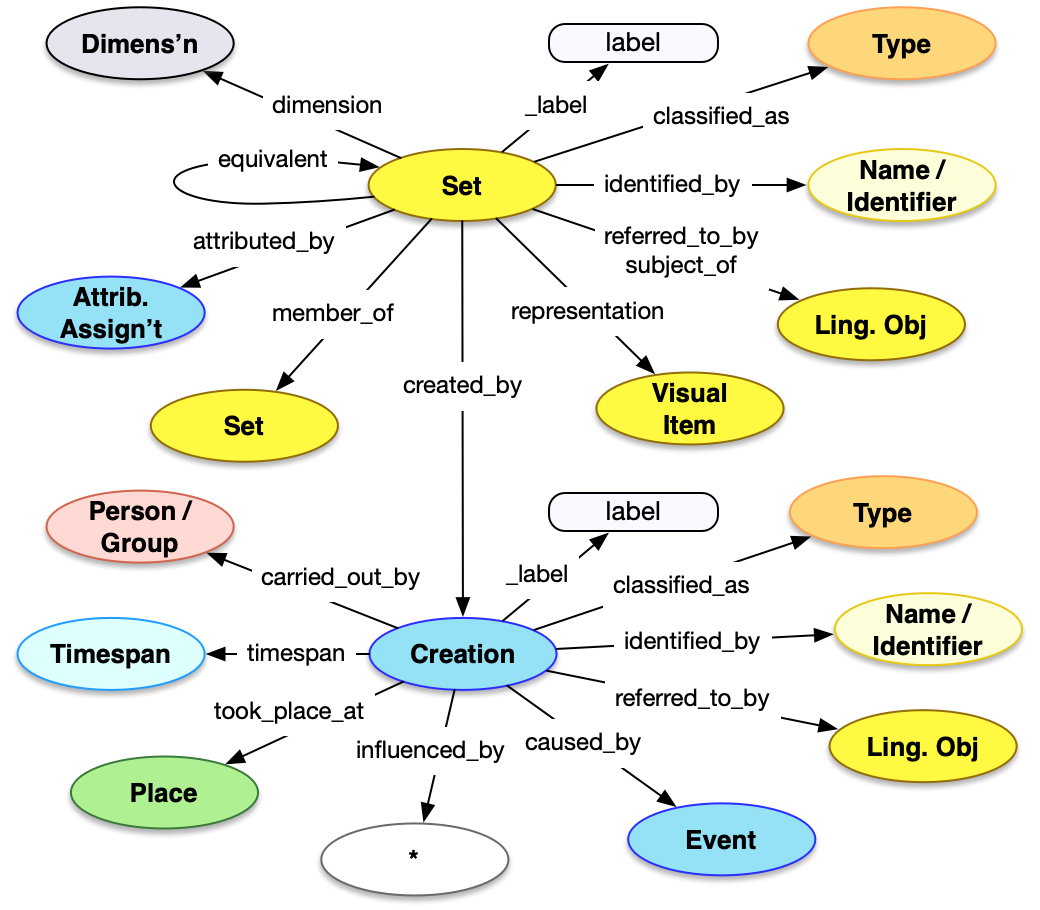
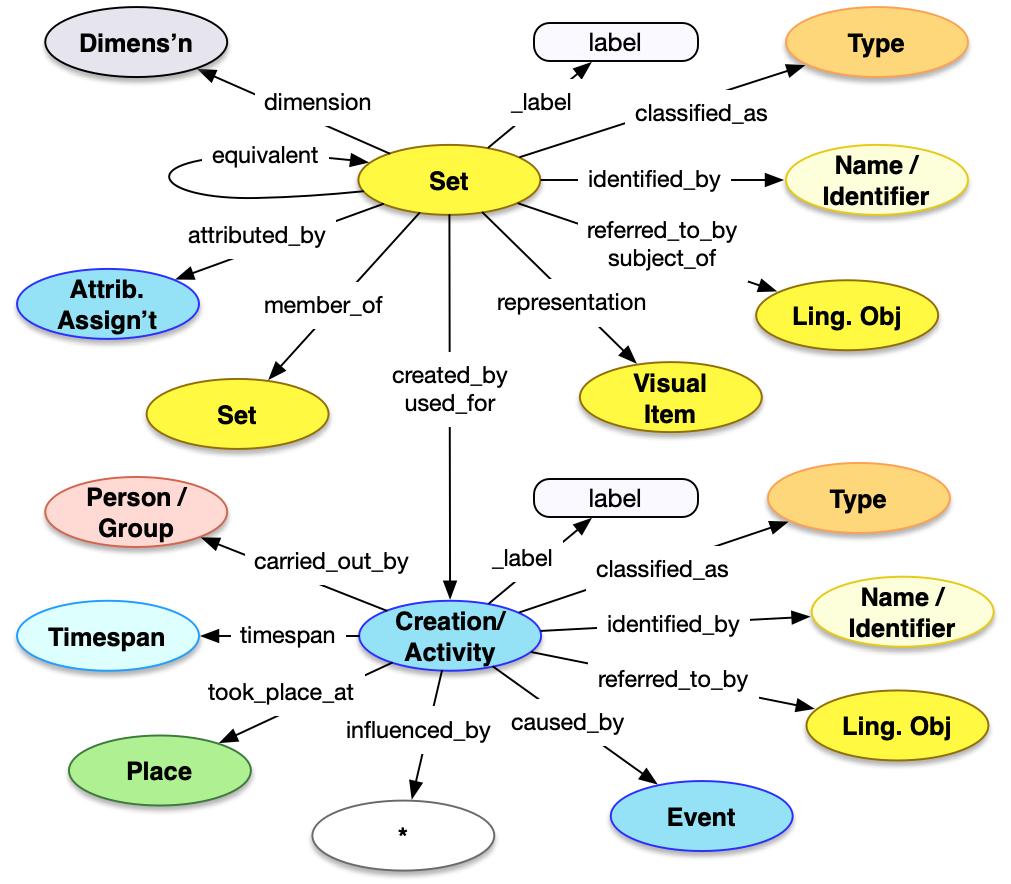
allow used_for on Set

diff --git a/docs/api/1.0/endpoint/set/index.md b/docs/api/1.0/endpoint/set/index.md
@@ -43,25 +43,26 @@ Dereferencing an entity via the Set endpoint would result in a JSON-LD document 
 | `member_of`       | array         | Optional    | An array of json objects, each of which is a Set that the current set is a member of and MUST follow the requirements for a [reference](../../shared/reference/) to a Set |
 | `subject_of`      | array         | Optional    | An array of json objects, each of which is a reference to a [Textual Work](../textual_work/), the content of which focuses on the current set, and MUST follow the requirements for a [reference](../../shared/reference) |
 | `attributed_by`   | array         | Optional    | An array of json objects, each of which is a [Relationship Assignment](../../shared/assignment/) that relates the current set to another entity |
-| `dimension` | array | Optional | An array of json objects, each of which is a [Dimension](../../shared/dimension), such as total number of members, of the current set |
-| `created_by` | json object | Optional | A json object representing the creation of the set, which follows the requirements for Creations described below. | 
+| `dimension`       | array | Optional | An array of json objects, each of which is a [Dimension](../../shared/dimension), such as total number of members, of the current set |
+| `created_by`      | json object | Optional | A json object representing the creation of the set, which follows the requirements for Creations described below | 
+| `used_for`        | array | Optional | An array of json objects, each of which is a Publication or similar Activity which follows the requirements for Publications below | 
 
 
-### Properties of Creations
+### Properties of Creations, Publications or other Activities
 
 | Property Name     | Datatype      | Requirement | Description | 
 |-------------------|---------------|-------------|-------------|
-| `id`              | string        | Optional    | If present, the value MUST be a URI identifying the creation  |  
-| `type`            | string        | Required    | The class for the creation, which MUST be the value `"Creation"` |
+| `id`              | string        | Optional    | If present, the value MUST be a URI identifying the creation or activity  |  
+| `type`            | string        | Required    | The class for the creation or activity, which MUST be the value `"Creation"` or `"Activity"` |
 | `_label`          | string        | Recommended | A human readable label for the creation, intended for developers |
-| `identified_by`   | array         | Recommended | An array of json objects, each of which is a name for the creation and MUST follow the requirements for [Name](../../shared/name/), or an identifier for the creation and MUST follow the requirements for [Identifier](../../shared/identifier/) |
-| `classified_as`   | array         | Recommended | An array of json objects, each of which is a further classification of the creation and MUST follow the requirements for [Type](../../shared/type/) |
-| `timespan`        | json object   | Recommended | A json object recording when the creation occured, which MUST follow the requirements for [timespans](../../shared/timespan/)|
-| `referred_to_by`  | array         | Optional    | An array of json objects, each of which is an embedded [statement](../statement/) about the creation |
-| `took_place_at`   | array         | Optional    | An array of json objects, each of which is a [reference](../../shared/reference/) to a [Place](../place/) where the creation occured |
-| `caused_by`       | array         | Optional    | An array of json objects, each of which is a [reference](../../shared/reference/) to an [Event](../event/) that caused the creation to occur |
-| `influenced_by`   | array         | Optional    | An array of json objects, each of which is a [reference](../../shared/reference/) to an entity that influenced the creation in some noticable fashion | 
-| `carried_out_by`  | array         | Optional    | An array of json objects, each of which is a [reference](../../shared/reference/) to a [Person](../person/) or [Group](../group/) that created the set |
+| `identified_by`   | array         | Recommended | An array of json objects, each of which is a name for the creation or activity and MUST follow the requirements for [Name](../../shared/name/), or an identifier for the creation and MUST follow the requirements for [Identifier](../../shared/identifier/) |
+| `classified_as`   | array         | Recommended | An array of json objects, each of which is a further classification of the creation or activity and MUST follow the requirements for [Type](../../shared/type/) |
+| `timespan`        | json object   | Recommended | A json object recording when the creation or activity occured, which MUST follow the requirements for [timespans](../../shared/timespan/)|
+| `referred_to_by`  | array         | Optional    | An array of json objects, each of which is an embedded [statement](../statement/) about the creation or activity |
+| `took_place_at`   | array         | Optional    | An array of json objects, each of which is a [reference](../../shared/reference/) to a [Place](../place/) where the creation or activity occured |
+| `caused_by`       | array         | Optional    | An array of json objects, each of which is a [reference](../../shared/reference/) to an [Event](../event/) that caused the creation or activity to occur |
+| `influenced_by`   | array         | Optional    | An array of json objects, each of which is a [reference](../../shared/reference/) to an entity that influenced the creation or activity in some noticable fashion | 
+| `carried_out_by`  | array         | Optional    | An array of json objects, each of which is a [reference](../../shared/reference/) to a [Person](../person/) or [Group](../group/) that carried out the creation or activity |
 
 
 ### Property Diagram
